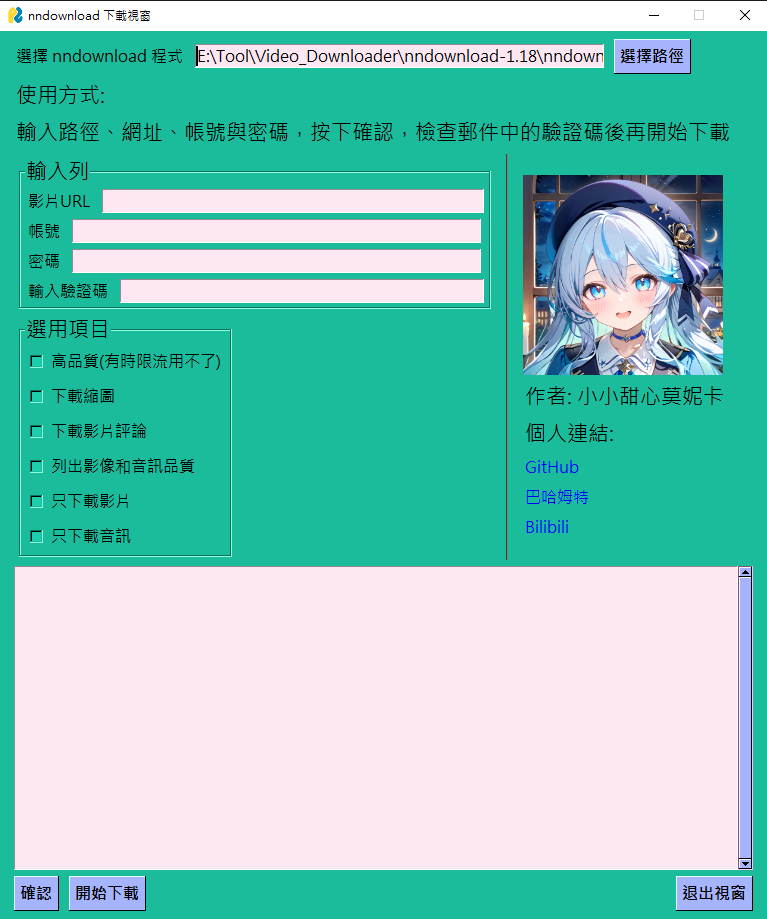
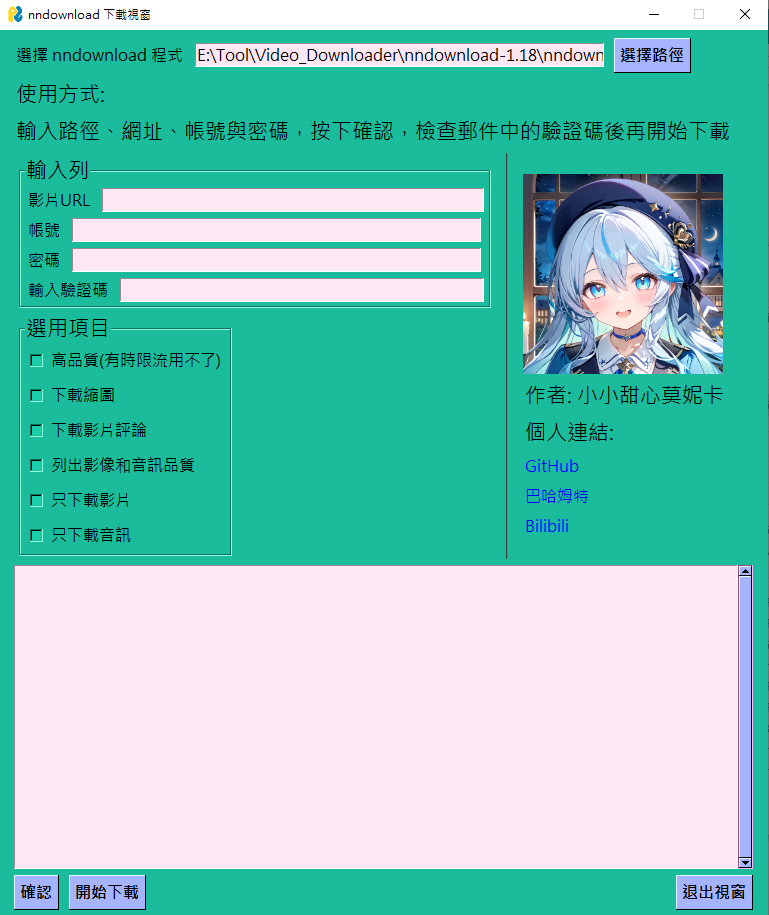
nndownloadWD-v2.0.0

diff --git a/运行视窗-简体.py b/运行视窗-简体.py
@@ -1,4 +1,4 @@
-import PySimpleGUI as sg
+import FreeSimpleGUI as sg
 import subprocess
 import threading
 import webbrowser
@@ -28,14 +28,14 @@ config = load_config('config.txt')
 # 界面样式
 sg.LOOK_AND_FEEL_TABLE['MyCreatedTheme'] = {
     'BACKGROUND': '#1ABC9C',  # 背景
-    'TEXT': '#000000',  # 文字
-    'INPUT': '#FCE7F3',  # 输入框
-    'TEXT_INPUT': '#000000',  # 输入文字
-    'SCROLL': '#EB7FD3',  # 滚动条
+    'TEXT': '#000000',         # 文字
+    'INPUT': '#FCE7F3',        # 输入框
+    'TEXT_INPUT': '#000000',   # 输入文字
+    'SCROLL': '#EB7FD3',       # 滚动条
     'BUTTON': ('#000000', '#A5B4FC'),  # 按钮(文字、颜色)
-    'PROGRESS': ('', ''),  # 进度条(文字、颜色)
-    'BORDER': 1, 'SLIDER_DEPTH': 0,  # 元素边框  元素3D
-    'PROGRESS_DEPTH': 0,  # 进度条3D
+    'PROGRESS': ('', ''),      # 进度条(文字、颜色)
+    'BORDER': 1, 'SLIDER_DEPTH': 0,    # 控件边框 # 控件3D
+    'PROGRESS_DEPTH': 0,       # 进度条3D
 }
 sg.theme('MyCreatedTheme')
 
@@ -43,33 +43,32 @@ sg.set_options(font=('微软雅黑', 12))
 
 # 创建窗口布局，使用 config 文件中加载的默认值
 program_col = [
-    [sg.Frame('输入框',
-        [[
+    [sg.Frame('输入列',
+        [
         [sg.Text('视频URL'), sg.Input(default_text=config.get('video_url', ''), key='video_url', size=(42, 1))],
         [sg.Text('账号'), sg.Input(default_text=config.get('username', ''), key='username')],
         [sg.Text('密码'), sg.Input(password_char='*', default_text=config.get('password', ''), key='password')],
         [sg.Text('输入验证码'), sg.Input(key='captcha', size=(40, 1))],
-        ]]
+        ]
     ,font=('微软雅黑', 16))],
 
-    
     # 添加选项
-    [sg.Frame('可选项目',
-        [[
-        [sg.Checkbox('高品质(有时限流无效)', key='high_quality')],
+    [sg.Frame('选用项目',
+        [
+        [sg.Checkbox('高品质(有时限流用不了)', key='high_quality')],
         [sg.Checkbox('下载缩略图', key='download_thumbnail')],
         [sg.Checkbox('下载视频评论', key='download_comments')],
         [sg.Checkbox('列出视频和音频质量', key='list_quality')],
-        [sg.Checkbox('仅下载视频', key='video_only')],
-        [sg.Checkbox('仅下载音频', key='audio_only')],
-        ]]
+        [sg.Checkbox('只下载视频', key='video_only')],
+        [sg.Checkbox('只下载音频', key='audio_only')],
+        ]
     ,font=('微软雅黑', 16))],
 ]
 
 # 个人介绍
 introduce_col = [
     [sg.Image(filename='./avatar.png', key="image", size=(200, 200))],
-    [sg.Text('作者: 小甜心莫妮卡', font=('微软雅黑', 16))],
+    [sg.Text('作者: 小小甜心莫妮卡', font=('微软雅黑', 16))],
     [sg.Text('个人链接:', font=('微软雅黑', 16))],
     [sg.Text('GitHub', enable_events=True, key='-GITHUB-LINK-', text_color='blue')],
     [sg.Text('巴哈姆特', enable_events=True, key='-BAHA-LINK-', text_color='blue')],
@@ -81,15 +80,14 @@ introduce = sg.Column(introduce_col)
 
 # 窗口整体
 layout = [
-    [sg.Text('选择 nndownload 程序'), sg.Input(default_text=config.get('nndownload_path', ''), key='nndownload_path'), sg.FilesBrowse(button_text="选择路径", font=('微软雅黑', 12,'bold'), file_types=(("Python 文件", "*.py"),))],
-    [sg.Text('使用说明:', font=('微软雅黑', 16))],
-    [sg.Text('输入路径、网址、账号和密码，点击确认，检查邮件中的验证码后再开始下载', font=('微软雅黑', 16))],
+    [sg.Text('使用方式:', font=('微软雅黑', 16))],
+    [sg.Text('输入链接、账号和密码，点击确认，检查邮箱中的验证码后再开始下载', font=('微软雅黑', 16))],
     [program, sg.VSeperator(), introduce],
     [sg.Output(size=(80, 15), key='output')],  # 用于显示 cmd 输出的内容
-    [sg.Button('确认', font=('微软雅黑', 12,'bold')), sg.Button('开始下载', font=('微软雅黑', 12,'bold')), sg.Push(), sg.Button('退出', font=('微软雅黑', 12,'bold'))]
+    [sg.Button('确认以获取验证码', font=('微软雅黑', 12,'bold')), sg.Button('开始下载', font=('微软雅黑', 12,'bold')), sg.Push(), sg.Button('退出窗口', font=('微软雅黑', 12,'bold'))]
 ]
 
-window = sg.Window('nndownload 下载器', layout)
+window = sg.Window('nndownload 下载窗口', layout)
 
 process = None
 
@@ -112,24 +110,20 @@ def run_command(command):
 
     process.wait()  # 等待进程结束
 
-    # 根据返回码显示相应的提示信息
-    if process.returncode == 0:
-        display_message('请到邮箱获取验证码，确认后请回到本界面输入验证码')
-    else:
-        display_message('登录失败，请重新检查路径与账号密码')
+    # 根据返回码显示相应的信息
+    if process.returncode != 0:
+        display_message('登录失败，请重新检查账号密码或网络')
 
-def confirm(values):
-    nndownload_path = f'"{values["nndownload_path"]}"'  # 路径中包含空格时，需要加引号
+def confirm(values):  # 取消 nndownload_path
     username = values['username']
     password = values['password']
-
-    # 检查是否输入了视频 URL
+    
+    # 檢查是否輸入了影片 URL
     if not values['video_url']:
-        sg.popup_error('请输入视频 URL')  # 如果没有输入网址，弹出提示对话框
-        return  # 阻止程序继续执行
+        sg.popup_error('請輸入影片 URL')  # 如果沒有輸入網址，彈出提示對話框
+        return  # 阻止程序繼續執行
 
     # 更新配置
-    config['nndownload_path'] = values['nndownload_path']
     config['username'] = username
     config['password'] = password
 
@@ -153,11 +147,11 @@ def confirm(values):
     if values['audio_only']:
         options.append('-vn')
 
-    # 构建完整的命令
-    command = f'python {nndownload_path} {video_url} -u {username} -p {password} ' + ' '.join(options)
+    # 构建完整命令
+    command = f'python -m nndownload "{video_url}" -u "{username}" -p "{password}" ' + ' '.join(options)  # 修改为不必再下载 nndownload.py
     
     # 显示提示信息
-    display_message('请到邮箱获取验证码，确认后请回到本界面输入验证码')
+    display_message('请到邮箱获取验证码，确认后请回到本窗口输入验证码')
     
     # 启动下载命令
     threading.Thread(target=run_command, args=(command,), daemon=True).start()
@@ -165,14 +159,14 @@ def confirm(values):
 while True:
     event, values = window.read()
 
-    if event == sg.WINDOW_CLOSED or event == '退出':
+    if event == sg.WINDOW_CLOSED or event == '退出窗口':
         break
 
-    if event == '确认':
+    if event == '确认以获取验证码':
         confirm(values)
 
     if event == '开始下载':
-        if process and process.poll() is None:  # 确保命令仍在运行
+        if process and process.poll() is None and process.stdin:  # 确保命令仍在运行且 stdin 可用
             captcha = values['captcha']
             display_message(f'开始下载: {captcha}')
             # 验证码通过 stdin 发送给命令

diff --git a/運行視窗.py b/運行視窗.py
@@ -1,4 +1,4 @@
-import PySimpleGUI as sg
+import FreeSimpleGUI as sg
 import subprocess
 import threading
 import webbrowser
@@ -44,25 +44,25 @@ sg.set_options(font=('微軟正黑體', 12))
 # 創建窗口佈局，使用 config 文件中加載的默認值
 program_col = [
     [sg.Frame('輸入列',
-        [[
+        [
         [sg.Text('影片URL'), sg.Input(default_text=config.get('video_url', ''), key='video_url', size=(42, 1))],
         [sg.Text('帳號'), sg.Input(default_text=config.get('username', ''), key='username')],
         [sg.Text('密碼'), sg.Input(password_char='*', default_text=config.get('password', ''), key='password')],
         [sg.Text('輸入驗證碼'), sg.Input(key='captcha', size=(40, 1))],
-        ]]
+        ]
     ,font=('微軟正黑體', 16))],
 
     
     # 添加選項
     [sg.Frame('選用項目',
-        [[
+        [
         [sg.Checkbox('高品質(有時限流用不了)', key='high_quality')],
         [sg.Checkbox('下載縮圖', key='download_thumbnail')],
         [sg.Checkbox('下載影片評論', key='download_comments')],
         [sg.Checkbox('列出影像和音訊品質', key='list_quality')],
         [sg.Checkbox('只下載影片', key='video_only')],
         [sg.Checkbox('只下載音訊', key='audio_only')],
-        ]]
+        ]
     ,font=('微軟正黑體', 16))],
 ]
 
@@ -81,12 +81,11 @@ introduce = sg.Column(introduce_col)
 
 # 窗口整體
 layout = [
-    [sg.Text('選擇 nndownload 程式'), sg.Input(default_text=config.get('nndownload_path', ''), key='nndownload_path'), sg.FilesBrowse(button_text="選擇路徑", font=('微軟正黑體', 12,'bold'), file_types=(("Python 文件", "*.py"),))],
     [sg.Text('使用方式:', font=('微軟正黑體', 16))],
     [sg.Text('輸入路徑、網址、帳號與密碼，按下確認，檢查郵件中的驗證碼後再開始下載', font=('微軟正黑體', 16))],
     [program, sg.VSeperator(), introduce],
     [sg.Output(size=(80, 15), key='output')],  # 用於顯示 cmd 輸出的內容
-    [sg.Button('確認', font=('微軟正黑體', 12,'bold')), sg.Button('開始下載', font=('微軟正黑體', 12,'bold')), sg.Push(), sg.Button('退出視窗', font=('微軟正黑體', 12,'bold'))]
+    [sg.Button('確認以獲取驗證碼', font=('微軟正黑體', 12,'bold')), sg.Button('開始下載', font=('微軟正黑體', 12,'bold')), sg.Push(), sg.Button('退出視窗', font=('微軟正黑體', 12,'bold'))]
 ]
 
 window = sg.Window('nndownload 下載視窗', layout)
@@ -113,23 +112,19 @@ def run_command(command):
     process.wait()  # 等待進程結束
 
     # 根據返回碼顯示相應的提示信息
-    if process.returncode == 0:
-        display_message('請到郵箱獲取驗證碼，確認後請回到本介面輸入驗證碼')
-    else:
+    if process.returncode != 0:
         display_message('登入失敗，請重新檢查路徑與帳號密碼')
 
-def confirm(values):
-    nndownload_path = f'"{values["nndownload_path"]}"'  # 路徑中包含空格時，需要加引號
+def confirm(values): #取消nndownload_path
     username = values['username']
     password = values['password']
-
+    
     # 檢查是否輸入了影片 URL
     if not values['video_url']:
         sg.popup_error('請輸入影片 URL')  # 如果沒有輸入網址，彈出提示對話框
         return  # 阻止程序繼續執行
 
     # 更新配置
-    config['nndownload_path'] = values['nndownload_path']
     config['username'] = username
     config['password'] = password
 
@@ -154,7 +149,7 @@ def confirm(values):
         options.append('-vn')
 
     # 構建完整的命令
-    command = f'python {nndownload_path} {video_url} -u {username} -p {password} ' + ' '.join(options)
+    command = f'python -m nndownload "{video_url}" -u "{username}" -p "{password}" ' + ' '.join(options) #修改為不必再下載nndownload.py
     
     # 顯示提示信息
     display_message('請到郵箱獲取驗證碼，確認後請回到本視窗輸入驗證碼')
@@ -168,7 +163,7 @@ while True:
     if event == sg.WINDOW_CLOSED or event == '退出視窗':
         break
 
-    if event == '確認':
+    if event == '確認以獲取驗證碼':
         confirm(values)
 
     if event == '開始下載':
